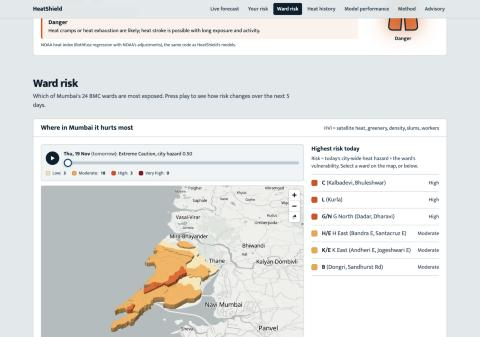
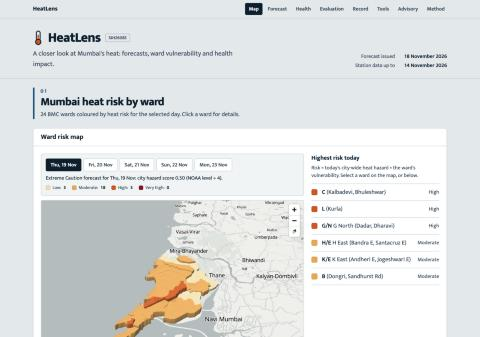
Ward map first; backtest chart by lead and month with error band and plain-language summary

Changed region(s): [[0.0625, 0.2374, 0.9375, 1.0], [0.0625, 0.0, 0.9375, 0.2077], [0.5, 0.8309, 0.5312, 0.8605]]

diff --git a/web/src/components/model/BacktestChart.jsx b/web/src/components/model/BacktestChart.jsx
@@ -1,52 +1,144 @@
 import { useMemo, useState } from 'react'
-import { CartesianGrid, Legend, Line, LineChart, ReferenceLine, ResponsiveContainer, Tooltip, XAxis, YAxis } from 'recharts'
+import { Area, CartesianGrid, ComposedChart, Legend, Line, ReferenceLine, ResponsiveContainer, Tooltip, XAxis, YAxis } from 'recharts'
 import { FINAL_METHOD, fmt, metric, modelName } from '../../lib/model'
-import { CHART, monthTick, monthTicks, shortDate } from '../../lib/chart'
-import { Note, Segmented } from './shared'
+import { CHART, shortDate } from '../../lib/chart'
+import { Note } from './shared'
 
-const LEADS = [1, 2, 3, 4, 5].map((n) => ({ value: n, label: `${n} day${n > 1 ? 's' : ''}` }))
+const DANGER = 39.4
+const MONTHS = ['Jan', 'Feb', 'Mar', 'Apr', 'May', 'Jun', 'Jul', 'Aug', 'Sep', 'Oct', 'Nov', 'Dec']
+const mean = (xs) => (xs.length ? xs.reduce((a, b) => a + b, 0) / xs.length : NaN)
 
-// 2026 backtest: what actually happened vs what was forecast N days earlier.
+// 2026 backtest: what was forecast N days earlier vs what the station measured.
+// Shown one month at a time so individual days (and the size of each miss) are visible.
 export default function BacktestChart({ corrector: c }) {
-  const [lead, setLead] = useState(1)
-  const rows = useMemo(
-    () => c.backtest.filter((r) => r.lead_days === lead).sort((a, b) => a.date.localeCompare(b.date)),
-    [c.backtest, lead],
-  )
-  const raw = metric(c.metrics, 'A_raw_forecast', lead)
-  const fin = metric(c.metrics, FINAL_METHOD, lead)
   const rawName = modelName(c.primary_raw_model)
+  const [lead, setLead] = useState(1)
+
+  // Months present in the test period, and the one with the most Danger days (shown first)
+  const months = useMemo(() => {
+    const byMonth = new Map()
+    for (const r of c.backtest) {
+      if (r.lead_days !== 1) continue
+      const m = r.date.slice(0, 7)
+      byMonth.set(m, (byMonth.get(m) ?? 0) + (r.observed >= DANGER ? 1 : 0))
+    }
+    return [...byMonth.entries()].sort(([a], [b]) => a.localeCompare(b))
+  }, [c.backtest])
+  const [month, setMonth] = useState(() => [...months].sort((a, b) => b[1] - a[1])[0]?.[0])
+
+  const rows = useMemo(
+    () =>
+      c.backtest
+        .filter((r) => r.lead_days === lead && r.date.startsWith(month))
+        .sort((a, b) => a.date.localeCompare(b.date))
+        // band = the gap between what HeatLens forecast and what happened
+        .map((r) => ({ ...r, band: [Math.min(r.observed, r.corrected), Math.max(r.observed, r.corrected)] })),
+    [c.backtest, lead, month],
+  )
+
+  // This month's numbers, computed from the rows shown
+  const stats = useMemo(() => {
+    const danger = rows.filter((r) => r.observed >= DANGER)
+    return {
+      n: rows.length,
+      maeFinal: mean(rows.map((r) => Math.abs(r.corrected - r.observed))),
+      maeRaw: mean(rows.map((r) => Math.abs(r.raw - r.observed))),
+      danger: danger.length,
+      caughtFinal: danger.filter((r) => r.corrected >= DANGER).length,
+      caughtRaw: danger.filter((r) => r.raw >= DANGER).length,
+    }
+  }, [rows])
+
+  const monthName = month ? `${MONTHS[Number(month.slice(5, 7)) - 1]} ${month.slice(0, 4)}` : ''
+  const first = metric(c.metrics, FINAL_METHOD, 1)
+  const last = metric(c.metrics, FINAL_METHOD, 5)
 
   return (
     <div className="min-w-0">
-      <div className="flex flex-wrap items-center justify-between gap-3">
-        <Segmented label="Forecast lead time" options={LEADS} value={lead} onChange={setLead} />
-        {raw && fin && (
-          <p className="text-sm tabular">
-            {lead}-day-ahead MAE: <span className="text-ink-soft line-through">{fmt(raw.mae)}</span>{' '}
-            <strong className="text-sea">{fmt(fin.mae)} °C</strong> <span className="text-ink-soft">({fin.n} days)</span>
-          </p>
-        )}
+      {/* Step 1: how far ahead? Each card already shows the whole-year result for that lead. */}
+      <p className="text-sm font-semibold">1. How far ahead was the forecast made?</p>
+      <div className="mt-2 grid grid-cols-2 gap-2 sm:grid-cols-5">
+        {[1, 2, 3, 4, 5].map((n) => {
+          const fin = metric(c.metrics, FINAL_METHOD, n)
+          const raw = metric(c.metrics, 'A_raw_forecast', n)
+          const on = n === lead
+          return (
+            <button
+              key={n}
+              type="button"
+              aria-pressed={on}
+              onClick={() => setLead(n)}
+              className={`rounded-md border p-3 text-left transition-colors ${on ? 'border-sea bg-sea text-white' : 'border-line bg-white hover:border-sea'}`}
+            >
+              <span className="block text-sm font-bold">{n} day{n > 1 ? 's' : ''} ahead</span>
+              <span className="mt-1 block text-xl font-extrabold tabular">±{fmt(fin?.mae, 2)} °C</span>
+              <span className={`block text-xs tabular ${on ? 'text-white/80' : 'text-ink-soft'}`}>raw model ±{fmt(raw?.mae, 2)} °C</span>
+            </button>
+          )
+        })}
+      </div>
+      <Note className="mt-2">
+        Average miss over all of 2026. HeatLens gets only a little worse the further ahead it looks (±{fmt(first?.mae)} °C at 1 day, ±{fmt(last?.mae)} °C at 5
+        days), so the lines below change only slightly between leads. The big gap is between HeatLens and the raw model.
+      </Note>
+
+      {/* Step 2: which month? */}
+      <p className="mt-5 text-sm font-semibold">2. Pick a month to look at day by day</p>
+      <div role="tablist" aria-label="Month" className="mt-2 flex flex-wrap gap-1.5">
+        {months.map(([m, d]) => (
+          <button
+            key={m}
+            type="button"
+            role="tab"
+            aria-selected={m === month}
+            onClick={() => setMonth(m)}
+            className={`rounded-sm border px-2.5 py-1 text-sm font-semibold ${m === month ? 'border-ink bg-ink text-white' : 'border-line bg-white text-ink-soft hover:text-ink'}`}
+            title={`${d} Danger days`}
+          >
+            {MONTHS[Number(m.slice(5, 7)) - 1]}
+            {d > 0 && <span className={`ml-1 text-xs ${m === month ? 'text-heat-orange' : 'text-heat-red'}`}>●</span>}
+          </button>
+        ))}
       </div>
 
-      <div className="mt-4 h-72 w-full sm:h-80">
+      {/* Plain-language summary of what the chart shows */}
+      <p className="mt-4 rounded-md border border-line bg-haze/60 p-3 text-sm">
+        In <strong>{monthName}</strong>, forecasting <strong>{lead} day{lead > 1 ? 's' : ''} ahead</strong>, HeatLens missed by{' '}
+        <strong className="text-sea tabular">{fmt(stats.maeFinal)} °C</strong> on average; the raw {rawName} forecast missed by{' '}
+        <strong className="tabular">{fmt(stats.maeRaw)} °C</strong>.
+        {stats.danger > 0 ? (
+          <>
+            {' '}Of <strong className="tabular">{stats.danger}</strong> Danger days, HeatLens warned on <strong className="tabular">{stats.caughtFinal}</strong> and the raw
+            model on <strong className="tabular">{stats.caughtRaw}</strong>.
+          </>
+        ) : (
+          ' No day reached the Danger level this month.'
+        )}
+      </p>
+
+      <div className="mt-3 h-72 w-full sm:h-80">
         <ResponsiveContainer width="100%" height="100%">
-          <LineChart data={rows} margin={{ top: 8, right: 8, bottom: 0, left: -12 }}>
+          <ComposedChart data={rows} margin={{ top: 8, right: 8, bottom: 0, left: -12 }}>
             <CartesianGrid stroke={CHART.line} strokeDasharray="2 4" vertical={false} />
-            <XAxis dataKey="date" ticks={monthTicks(rows)} tickFormatter={monthTick} tick={CHART.tick} minTickGap={8} tickLine={false} axisLine={{ stroke: CHART.line }} />
-            <YAxis domain={['dataMin - 2', 'dataMax + 2']} tickFormatter={(v) => `${Math.round(v)}°`} tick={CHART.tick} width={44} tickLine={false} axisLine={false} />
-            <Tooltip labelFormatter={shortDate} formatter={(v, n) => [`${fmt(v, 1)} °C`, n]} contentStyle={CHART.tooltip} />
+            <XAxis dataKey="date" tickFormatter={(d) => Number(d.slice(8, 10))} tick={CHART.tick} interval="preserveStartEnd" minTickGap={12} tickLine={false} axisLine={{ stroke: CHART.line }} />
+            <YAxis domain={['dataMin - 1.5', 'dataMax + 1.5']} tickFormatter={(v) => `${Math.round(v)}°`} tick={CHART.tick} width={44} tickLine={false} axisLine={false} />
+            <Tooltip
+              labelFormatter={shortDate}
+              formatter={(v, n) => (Array.isArray(v) ? [`${fmt(v[1] - v[0], 1)} °C`, 'HeatLens miss'] : [`${fmt(v, 1)} °C`, n])}
+              contentStyle={CHART.tooltip}
+            />
             <Legend wrapperStyle={{ fontSize: 13 }} />
-            <ReferenceLine y={39.4} stroke={CHART.danger} strokeDasharray="5 4" label={{ value: 'Danger 39.4 °C', position: 'insideTopLeft', fontSize: 11, fill: CHART.danger }} />
-            <Line name="Observed (Santacruz)" dataKey="observed" stroke={CHART.ink} strokeWidth={1.6} dot={false} isAnimationActive={false} />
-            <Line name={`Raw ${rawName} forecast`} dataKey="raw" stroke={CHART.grey} strokeWidth={1.2} dot={false} isAnimationActive={false} />
-            <Line name="HeatLens" dataKey="corrected" stroke={CHART.sea} strokeWidth={1.8} dot={false} isAnimationActive={false} />
-          </LineChart>
+            <ReferenceLine y={DANGER} stroke={CHART.danger} strokeDasharray="5 4" label={{ value: 'Danger 39.4 °C', position: 'insideTopLeft', fontSize: 11, fill: CHART.danger }} />
+            <Area name="HeatLens miss" dataKey="band" fill={CHART.sea} fillOpacity={0.15} stroke="none" isAnimationActive={false} />
+            <Line name={`Raw ${rawName}`} dataKey="raw" stroke={CHART.grey} strokeWidth={1.4} strokeDasharray="4 3" dot={false} isAnimationActive={false} />
+            <Line name="Observed" dataKey="observed" stroke={CHART.ink} strokeWidth={2} dot={{ r: 2.5 }} isAnimationActive={false} />
+            <Line name="HeatLens" dataKey="corrected" stroke={CHART.sea} strokeWidth={2} dot={{ r: 2.5 }} isAnimationActive={false} />
+          </ComposedChart>
         </ResponsiveContainer>
       </div>
       <Note className="mt-2">
-        Every point is a real forecast made {lead} day{lead > 1 ? 's' : ''} ahead for a 2026 day, compared with the daily maximum heat index
-        measured at Santacruz. The model was trained only on 2024–2025.
+        Each point is a real forecast made {lead} day{lead > 1 ? 's' : ''} before that date, compared with the daily maximum heat index measured at
+        Santacruz. The shaded band is the size of HeatLens's miss. The model was trained only on 2024–2025.
       </Note>
     </div>
   )

diff --git a/web/src/App.jsx b/web/src/App.jsx
@@ -59,7 +59,17 @@ export default function App() {
       </div>
 
       <main className="min-w-0">
-        <Section n="01" id="forecast" title="Heat index forecast" intro={`Next 5 days at Santacruz: the raw ${forecast.data ? modelName(forecast.data.forecast_model) : 'weather model'} forecast and the ML-corrected value, with NOAA and IMD alert levels.`}>
+        <Section n="01" id="ward-risk" title="Mumbai heat risk by ward" intro="24 BMC wards coloured by heat risk for the selected day. Click a ward for details.">
+          <Panel id="wards" title="Ward risk map">
+            {wards.data ? (
+              <SafeBoundary name="ward map"><WardRiskSection wards={wards.data} days={forecast.data?.days} /></SafeBoundary>
+            ) : (
+              <Status {...wards} onRetry={wards.reload} what="the ward map" />
+            )}
+          </Panel>
+        </Section>
+
+        <Section n="02" id="forecast" title="Heat index forecast" intro={`Next 5 days at Santacruz: the raw ${forecast.data ? modelName(forecast.data.forecast_model) : 'weather model'} forecast and the ML-corrected value, with NOAA and IMD alert levels.`}>
           <SafeBoundary name="forecast gauge"><HeroGauge state={forecast} /></SafeBoundary>
           <Panel id="chart" title="Raw vs corrected forecast" aside="Daily maximum heat index, °C">
             {forecast.data ? (
@@ -72,16 +82,6 @@ export default function App() {
               </>
             ) : (
               <Status {...forecast} onRetry={forecast.reload} what="the forecast" />
-            )}
-          </Panel>
-        </Section>
-
-        <Section n="02" id="ward-risk" title="Ward vulnerability" intro="Heat Vulnerability Index for the 24 BMC wards (satellite land-surface temperature, green cover, density, slum share, worker share), combined with the selected day's city-wide hazard.">
-          <Panel id="wards" title="Ward risk map">
-            {wards.data ? (
-              <SafeBoundary name="ward map"><WardRiskSection wards={wards.data} days={forecast.data?.days} /></SafeBoundary>
-            ) : (
-              <Status {...wards} onRetry={wards.reload} what="the ward map" />
             )}
           </Panel>
         </Section>
@@ -148,7 +148,7 @@ export default function App() {
 function Section({ n, id, title, intro, children }) {
   const odd = Number(n) % 2 === 1
   return (
-    <section id={id} aria-labelledby={`${id}-heading`} className={`min-w-0 scroll-mt-12 border-t border-line py-10 sm:py-14 ${odd ? 'bg-haze' : 'bg-white'}`}>
+    <section id={id} aria-labelledby={`${id}-heading`} className={`min-w-0 scroll-mt-12 border-t border-line ${n === '01' ? 'pt-6 pb-10 sm:pb-14' : 'py-10 sm:py-14'} ${odd ? 'bg-haze' : 'bg-white'}`}>
       <div className="mx-auto flex max-w-6xl min-w-0 flex-col gap-5 px-4 sm:gap-6 sm:px-6">
         <div className="border-l-4 border-sea pl-4">
           <p className="text-sm font-bold tracking-widest text-sea tabular">{n}</p>

diff --git a/web/src/components/NavBar.jsx b/web/src/components/NavBar.jsx
@@ -1,8 +1,8 @@
 import { useEffect, useRef, useState } from 'react'
 
 const NAV = [
+  { id: 'ward-risk', label: 'Map' },
   { id: 'forecast', label: 'Forecast' },
-  { id: 'ward-risk', label: 'Wards' },
   { id: 'health', label: 'Health' },
   { id: 'performance', label: 'Evaluation' },
   { id: 'history', label: 'Record' },

diff --git a/README.md b/README.md
@@ -14,11 +14,13 @@ Heat warnings usually look only at temperature. In humid Mumbai, **34 °C at 70 
 
 ## Screenshots
 
-| Model performance (2026 hold-out test) | Past heatwaves: real case study (Oct 2026) |
+| Ward risk map (first screen) | 2026 backtest: forecast vs observed, by lead time and month |
 |---|---|
+| ![Ward map](docs/screenshots/ward_map.jpg) | ![Backtest](docs/screenshots/backtest.jpg) |
+| **Model performance (2026 hold-out test)** | **Past heatwaves: real case study (Oct 2026)** |
 | ![Model performance](docs/screenshots/model_performance.jpg) | ![Past heatwaves](docs/screenshots/past_heatwaves.jpg) |
-| **Feels-like gauge (live forecast)** | **Ward risk map with 5-day replay** |
-| ![Forecast](docs/screenshots/forecast_strip.jpg) | ![Ward map](docs/screenshots/ward_map.jpg) |
+| **Feels-like gauge (live forecast)** | |
+| ![Forecast](docs/screenshots/forecast_strip.jpg) | |
 | **6-year heat calendar (2,117 real days)** | **"Am I at risk?" + what-if calculator** |
 | ![Heat calendar](docs/screenshots/heat_calendar.jpg) | ![Risk checker](docs/screenshots/risk_checker.jpg) |
 
